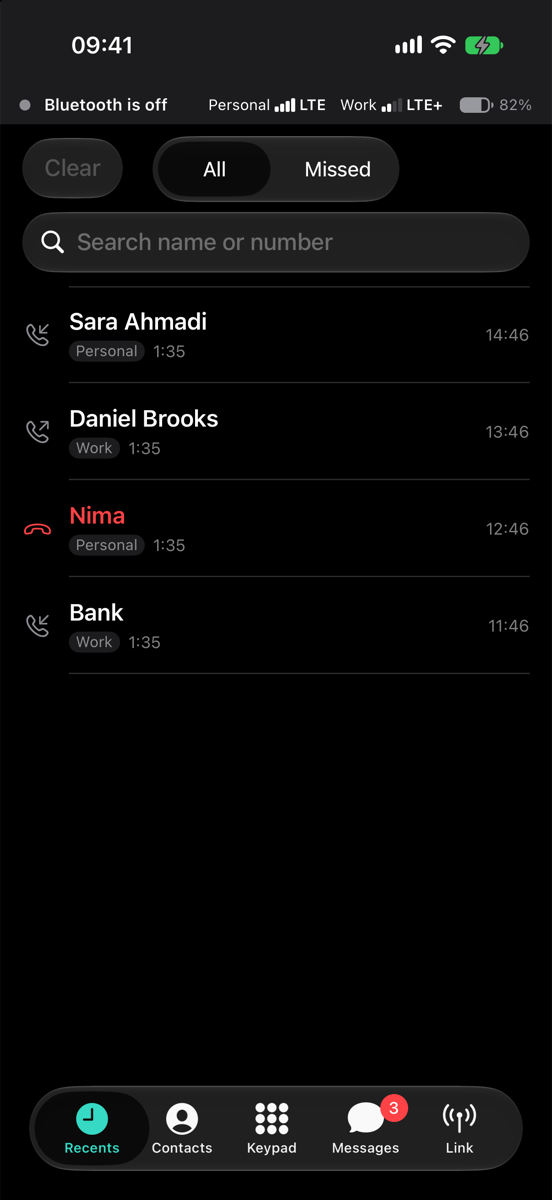
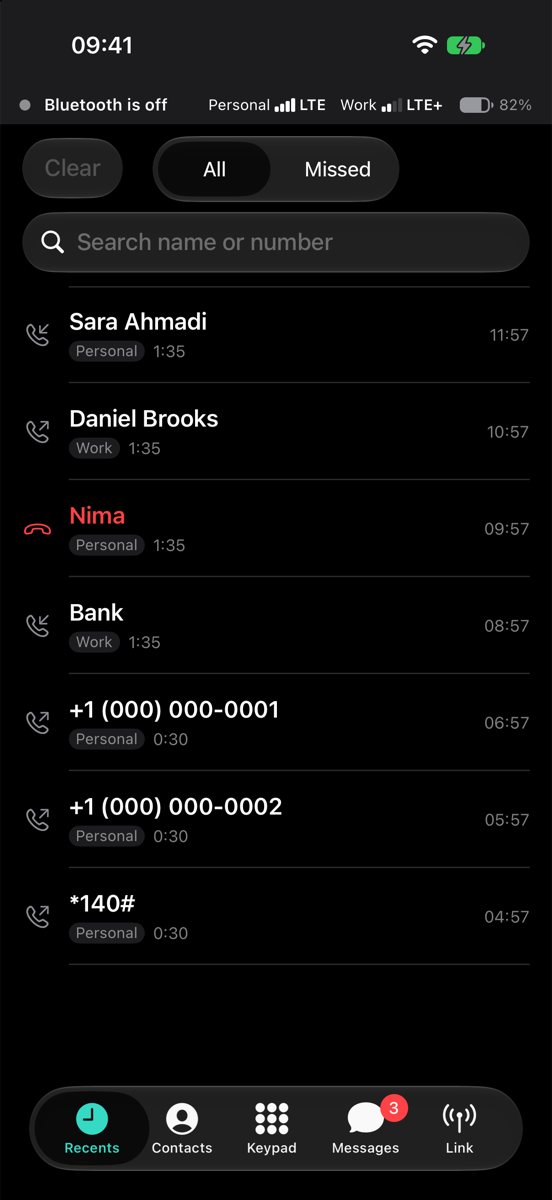
README: eight screenshots from the simulator with demo data, the new features listed, dark design stated

diff --git a/README.md b/README.md
@@ -4,25 +4,41 @@ Tether puts an Android phone's calls, text messages, contacts and call history o
 second Android phone. The Android phone keeps the SIM cards and can stay in a bag; the two talk directly over an
 end-to-end encrypted Bluetooth link, with no server and no account.
 
-<p>
-  <img src="docs/images/recents.png" width="260" alt="Recents on the iPhone, with calls from two SIMs">
-  <img src="docs/images/thread.png" width="260" alt="A text conversation on the iPhone">
-</p>
+<table>
+  <tr>
+    <td align="center"><img src="docs/images/recents.png" width="190" alt="Recents: calls from both SIMs, missed calls in red"><br><sub>Recents</sub></td>
+    <td align="center"><img src="docs/images/thread.png" width="190" alt="A text conversation"><br><sub>A conversation</sub></td>
+    <td align="center"><img src="docs/images/one-time-code.png" width="190" alt="One-time codes with a Copy button, links and numbers recognised"><br><sub>One-time codes</sub></td>
+    <td align="center"><img src="docs/images/contacts.png" width="190" alt="Contacts and Favourites"><br><sub>Contacts</sub></td>
+  </tr>
+  <tr>
+    <td align="center"><img src="docs/images/keypad.png" width="190" alt="Keypad, the number grouped as you type"><br><sub>Keypad</sub></td>
+    <td align="center"><img src="docs/images/in-call.png" width="190" alt="Call screen with the Audio menu for headsets and the car"><br><sub>In a call</sub></td>
+    <td align="center"><img src="docs/images/phone-tools.png" width="190" alt="Link tab: carrier codes, Find phone and the ringer"><br><sub>Phone tools</sub></td>
+    <td align="center"><img src="docs/images/messages-persian.png" width="190" alt="Messages in Persian, right to left"><br><sub>Persian</sub></td>
+  </tr>
+</table>
 
-*Screenshots from the iOS simulator with demo data.*
+*Screenshots from the iOS simulator with demo data (test numbers and made-up names).*
 
 ## What works
 
 - **Calls** through the iPhone's own call screen (CallKit): incoming ringing, answer, decline, dial, hang up, hold,
   mute, keypad tones, speaker, call waiting, "move the call here" between devices. Call audio is bridged both ways
-  (Opus, wideband) on Android phones that allow it, see [Compatibility](#compatibility).
+  (Opus, wideband) on Android phones that allow it, see [Compatibility](#compatibility). An **Audio** menu moves a
+  call to a Bluetooth headset or the car and back.
+- **Numbers from other apps**: a "Call with" action for Shortcuts and Siri (also finds a number in shared text),
+  `tether://dial` links, call-backs from the Phone app's Recents, and on iOS 18.2+ with a paid developer account,
+  the default calling app for `tel:` links. Numbers are grouped like phones show them, on the keypad as you type.
 - **Messages** (SMS): every conversation, live new texts, send from either SIM, read state shared with the Android
   phone, delete, mute, block, one-time codes with a Copy button, links and phone numbers recognised.
 - **Contacts**: browse, search, edit, add, favourites; **Recents**: search, delete, clear, missed-call badge.
 - **Notifications** for texts and missed calls, with quick reply.
 - **Link tab**: battery and signal of each SIM, and remote switches for mobile data, the data SIM, Wi-Fi hotspot,
   Bluetooth tethering, airplane mode, network mode, and "Share VPN" (use the Android phone's VPN from the iPhone).
-- English and Persian, light and dark.
+- **Phone tools**: carrier codes such as a balance check (USSD) on either SIM, "Find phone" (the Android phone rings
+  loudly) and its ringer mode.
+- English and Persian (right to left), in a dark design.
 
 ### On a second Android phone
 
